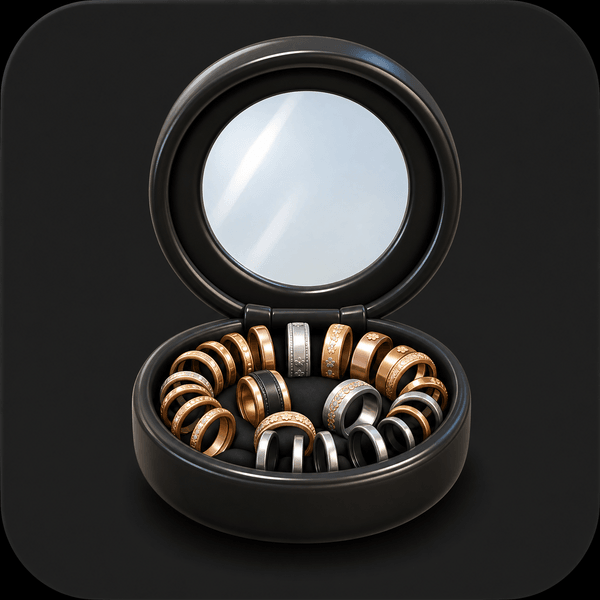
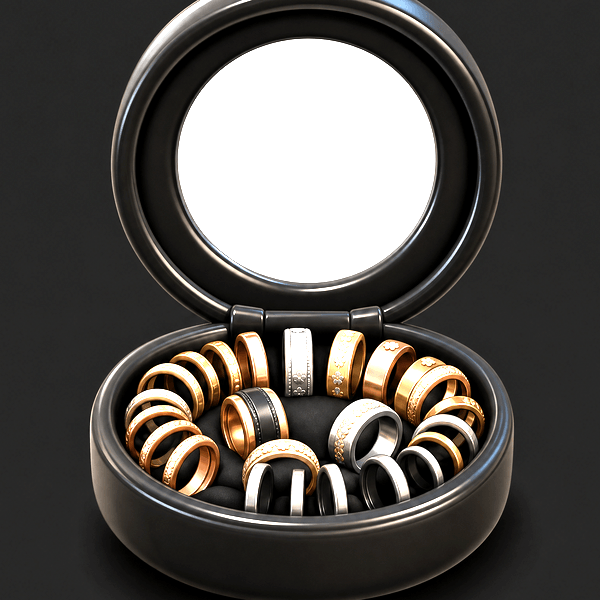
corrections jeux: bouton 'ouvrir ma commood' bien visible après le jeu · clic moodaille = carte en grand (avantage+code) · onglet Jeux retiré de l'appli · image taquin éclaircie/recadrée (lisible) · labyrinthe agrandi 9→13

diff --git a/app/armoire/Cabinet.tsx b/app/armoire/Cabinet.tsx
@@ -7,7 +7,7 @@ import { ARMOIRE_PALETTES, type ArmoirePalette } from "@/lib/armoire-catalog";
    editable=true (page cliente) → chaque bijou a un menu "déplacer" + "photo perso".
    palette → recolore la VRAIE armoire (déco). */
 
-export type Piece = { pid: number; title: string; image: string | null; date: string; quantity: number };
+export type Piece = { pid: number; title: string; image: string | null; date: string; quantity: number; card?: string; avantage?: string; code?: string; rarete?: string };
 export type Tiroir = { key: string; label: string; emoji: string; pieces: Piece[] };
 export type Choice = { key: string; label: string };
 
@@ -59,6 +59,7 @@ export function Cabinet({
   palette?: ArmoirePalette;
 }) {
   const p = palette;
+  const [zoom, setZoom] = useState<Piece | null>(null);
   return (
     <div style={{ maxWidth: 760, margin: "10px auto 0" }}>
       <div
@@ -92,6 +93,7 @@ export function Cabinet({
             editable={editable && t.key !== "moodailles"}
             onMove={onMove}
             onPhoto={onPhoto}
+            onZoom={setZoom}
             palette={p}
           />
         ))}
@@ -100,6 +102,24 @@ export function Cabinet({
         <span style={foot(p.frame)} />
         <span style={foot(p.frame)} />
       </div>
+
+      {/* Zoom carte moodaille — la cliente clique l'icône, la carte s'affiche en grand pour bien la lire */}
+      {zoom && (
+        <div onClick={() => setZoom(null)} style={{ position: "fixed", inset: 0, background: "rgba(40,30,20,0.6)", display: "flex", alignItems: "center", justifyContent: "center", zIndex: 120, padding: 18 }}>
+          <div onClick={(e) => e.stopPropagation()} style={{ background: "#fffdfb", borderRadius: 18, padding: 16, maxWidth: 360, width: "100%", textAlign: "center", boxShadow: "0 20px 60px rgba(0,0,0,0.35)" }}>
+            <div style={{ display: "flex", justifyContent: "flex-end" }}>
+              <button onClick={() => setZoom(null)} style={{ border: "none", background: "transparent", fontSize: 20, cursor: "pointer", color: "#6b4f33" }}>✕</button>
+            </div>
+            {/* eslint-disable-next-line @next/next/no-img-element */}
+            <img src={zoom.card || zoom.image || ""} alt={zoom.title} style={{ width: "100%", borderRadius: 14, boxShadow: "0 10px 30px rgba(0,0,0,0.2)" }} />
+            <div style={{ fontSize: 18, fontWeight: 600, marginTop: 12 }}>{zoom.title}</div>
+            {zoom.avantage && <div style={{ fontSize: 14, opacity: 0.85, marginTop: 4 }}>{zoom.avantage}</div>}
+            {zoom.code && <div style={{ fontSize: 13, marginTop: 10, letterSpacing: 1, background: "#f6f1ea", borderRadius: 8, padding: "8px 10px", fontWeight: 600 }}>Code : {zoom.code}</div>}
+            {zoom.rarete && <div style={{ fontSize: 11, opacity: 0.6, marginTop: 8, textTransform: "uppercase", letterSpacing: 1 }}>{zoom.rarete}</div>}
+            <div style={{ fontSize: 11, opacity: 0.5, marginTop: 10 }}>⚠️ Carte personnelle — ne partage pas ton code 🤍</div>
+          </div>
+        </div>
+      )}
     </div>
   );
 }
@@ -111,6 +131,7 @@ function Drawer({
   editable,
   onMove,
   onPhoto,
+  onZoom,
   palette,
 }: {
   tiroir: Tiroir;
@@ -119,6 +140,7 @@ function Drawer({
   editable: boolean;
   onMove?: (key: string, tiroirKey: string) => void;
   onPhoto?: (key: string, dataUrl: string) => void;
+  onZoom?: (piece: Piece) => void;
   palette: ArmoirePalette;
 }) {
   const [dropHover, setDropHover] = useState(false);
@@ -200,7 +222,7 @@ function Drawer({
         >
           <div style={{ display: "grid", gridTemplateColumns: "repeat(auto-fill, minmax(96px, 1fr))", gap: 10 }}>
             {tiroir.pieces.map((p, i) => (
-              <PieceCell key={i} piece={p} editable={editable} onPhoto={onPhoto} />
+              <PieceCell key={i} piece={p} editable={editable} onPhoto={onPhoto} onZoom={onZoom} />
             ))}
           </div>
         </div>
@@ -213,13 +235,16 @@ function PieceCell({
   piece,
   editable,
   onPhoto,
+  onZoom,
 }: {
   piece: Piece;
   editable: boolean;
   onPhoto?: (key: string, dataUrl: string) => void;
+  onZoom?: (piece: Piece) => void;
 }) {
   const fileRef = useRef<HTMLInputElement>(null);
   const k = keyOf(piece);
+  const isMoodaille = Boolean(piece.card);
 
   async function onFile(e: React.ChangeEvent<HTMLInputElement>) {
     const f = e.target.files?.[0];
@@ -237,14 +262,18 @@ function PieceCell({
       <div
         draggable={editable}
         onDragStart={editable ? (e) => e.dataTransfer.setData("text/plain", k) : undefined}
-        style={{ ...pieceBox(), position: "relative", cursor: editable ? "grab" : "default" }}
-        title={editable ? "Glisse-moi sur un tiroir pour me ranger" : undefined}
+        onClick={isMoodaille ? () => onZoom?.(piece) : undefined}
+        style={{ ...pieceBox(), position: "relative", cursor: isMoodaille ? "zoom-in" : editable ? "grab" : "default" }}
+        title={isMoodaille ? "Clique pour voir ta carte en grand" : editable ? "Glisse-moi sur un tiroir pour me ranger" : undefined}
       >
         {piece.image ? (
           // eslint-disable-next-line @next/next/no-img-element
           <img src={piece.image} alt={piece.title} style={{ width: "100%", height: "100%", objectFit: "cover", pointerEvents: "none" }} />
         ) : (
           <span style={{ fontSize: 24 }}>💍</span>
+        )}
+        {isMoodaille && (
+          <span style={{ position: "absolute", bottom: 3, right: 3, fontSize: 11, background: "rgba(255,255,255,0.9)", borderRadius: 999, padding: "1px 6px", boxShadow: "0 1px 3px rgba(0,0,0,0.2)" }}>🔍</span>
         )}
 
         {editable && (

diff --git a/app/armoire/page.tsx b/app/armoire/page.tsx
@@ -322,20 +322,12 @@ export default function ArmoirePage() {
             <div style={{ display: "flex", gap: 8, justifyContent: "center", margin: "18px 0 4px", flexWrap: "wrap" }}>
               <button style={tabBtn(tab === "armoire")} onClick={() => setTab("armoire")}>🪟 Ma commood</button>
               <button style={tabBtn(tab === "moodie")} onClick={() => setTab("moodie")}>🧍 Mon moodie</button>
-              <button style={tabBtn(tab === "jeux")} onClick={() => setTab("jeux")}>🎮 Jeux</button>
               <button style={tabBtn(tab === "regles")} onClick={() => setTab("regles")}>🎁 Gagner des objets</button>
               <button style={tabBtn(tab === "guide")} onClick={() => setTab("guide")}>✨ Mode d&apos;emploi</button>
             </div>
 
             {tab === "moodie" && (
               <AvatarStudio pick={avatarPick} onPick={onAvatarPick} avatarOn={avatarOn} onToggleRoom={setAvatarVisible} />
-            )}
-            {tab === "jeux" && (
-              <Jeux
-                moodaillesOwned={moodaillesOwned}
-                moodaillesCat={moodaillesCat}
-                onPlay={(id) => { const g = GAMES.find((x) => x.id === id); if (g?.type === "skill") setPlaying(id); else gagnerMoodaille(id); }}
-              />
             )}
             {tab === "regles" && <Regles budget={data.entitlements.decoBudget} debloques={data.unlocks.deco.length} />}
             {tab === "guide" && <Guide />}
@@ -373,7 +365,7 @@ export default function ArmoirePage() {
                             emoji: "🏅",
                             pieces: moodaillesOwned.flatMap((id) => {
                               const m = moodaillesCat.find((x) => x.id === id);
-                              return m ? [{ pid: 0, title: m.nom, image: m.icone || m.img, date: "", quantity: 1 }] : [];
+                              return m ? [{ pid: 0, title: m.nom, image: m.icone || m.img, date: "", quantity: 1, card: m.img, avantage: m.avantage, code: m.code, rarete: m.rarete }] : [];
                             }),
                           },
                         ]}

diff --git a/app/jeu/[slug]/page.tsx b/app/jeu/[slug]/page.tsx
@@ -164,7 +164,7 @@ export default function JeuPage() {
               <>
                 <div style={{ fontSize: 40 }}>⏳</div>
                 <p style={{ lineHeight: 1.6 }}>Tu as déjà joué cette saison 🤍 Reviens au prochain drop de cartes !</p>
-                <a href="/armoire" style={lien()}>Voir ma commood →</a>
+                <a href="/armoire" style={btnLink()}>🤍 Ouvrir ma commood</a>
               </>
             ) : resultat.won ? (
               <>
@@ -175,13 +175,13 @@ export default function JeuPage() {
                 </div>
                 <div style={{ fontSize: 18, fontWeight: 600, marginTop: 12 }}>{resultat.won.nom}</div>
                 {resultat.won.avantage && <div style={{ fontSize: 14, opacity: 0.8 }}>{resultat.won.avantage}</div>}
-                <a href="/armoire" style={lien()}>Elle est dans ta commood → ouvre-la 🤍</a>
+                <a href="/armoire" style={btnLink()}>🤍 Ouvrir ma commood</a>
               </>
             ) : (
               <>
                 <div style={{ fontSize: 40 }}>🤍</div>
                 <p style={{ lineHeight: 1.6 }}>{resultat.message || "Pas de nouvelle carte cette fois — reviens au prochain drop !"}</p>
-                <a href="/armoire" style={lien()}>Voir ma commood →</a>
+                <a href="/armoire" style={btnLink()}>🤍 Ouvrir ma commood</a>
               </>
             )}
           </div>
@@ -201,3 +201,4 @@ function inp(): React.CSSProperties { return { width: "100%", boxSizing: "border
 function btn(): React.CSSProperties { return { width: "100%", padding: "14px", borderRadius: 999, border: "none", background: ENCRE, color: "#fff", fontSize: 16, cursor: "pointer", letterSpacing: 0.3 }; }
 function btnLight(): React.CSSProperties { return { padding: "11px 22px", borderRadius: 999, border: "1px solid #d9cdbf", background: "transparent", color: ENCRE, fontSize: 14, cursor: "pointer" }; }
 function lien(): React.CSSProperties { return { display: "inline-block", marginTop: 16, color: ENCRE, fontSize: 14, fontWeight: 600 }; }
+function btnLink(): React.CSSProperties { return { display: "inline-block", marginTop: 18, padding: "14px 28px", borderRadius: 999, background: ENCRE, color: "#fff", fontSize: 16, fontWeight: 600, textDecoration: "none", boxShadow: "0 6px 18px rgba(58,51,48,0.25)" }; }

diff --git a/app/armoire/games/Maze.tsx b/app/armoire/games/Maze.tsx
@@ -6,7 +6,7 @@ import React, { useEffect, useMemo, useState } from "react";
    Quand il arrive sur la commode → onWin(). Simple : labyrinthe "parfait" (toujours une solution). */
 
 const ENCRE = "#3a3330";
-const N = 9;
+const N = 13;
 const AVATAR = "/jeux/labyrinthe/avatar.png";
 const COMMODE = "/jeux/labyrinthe/commode.png";
 